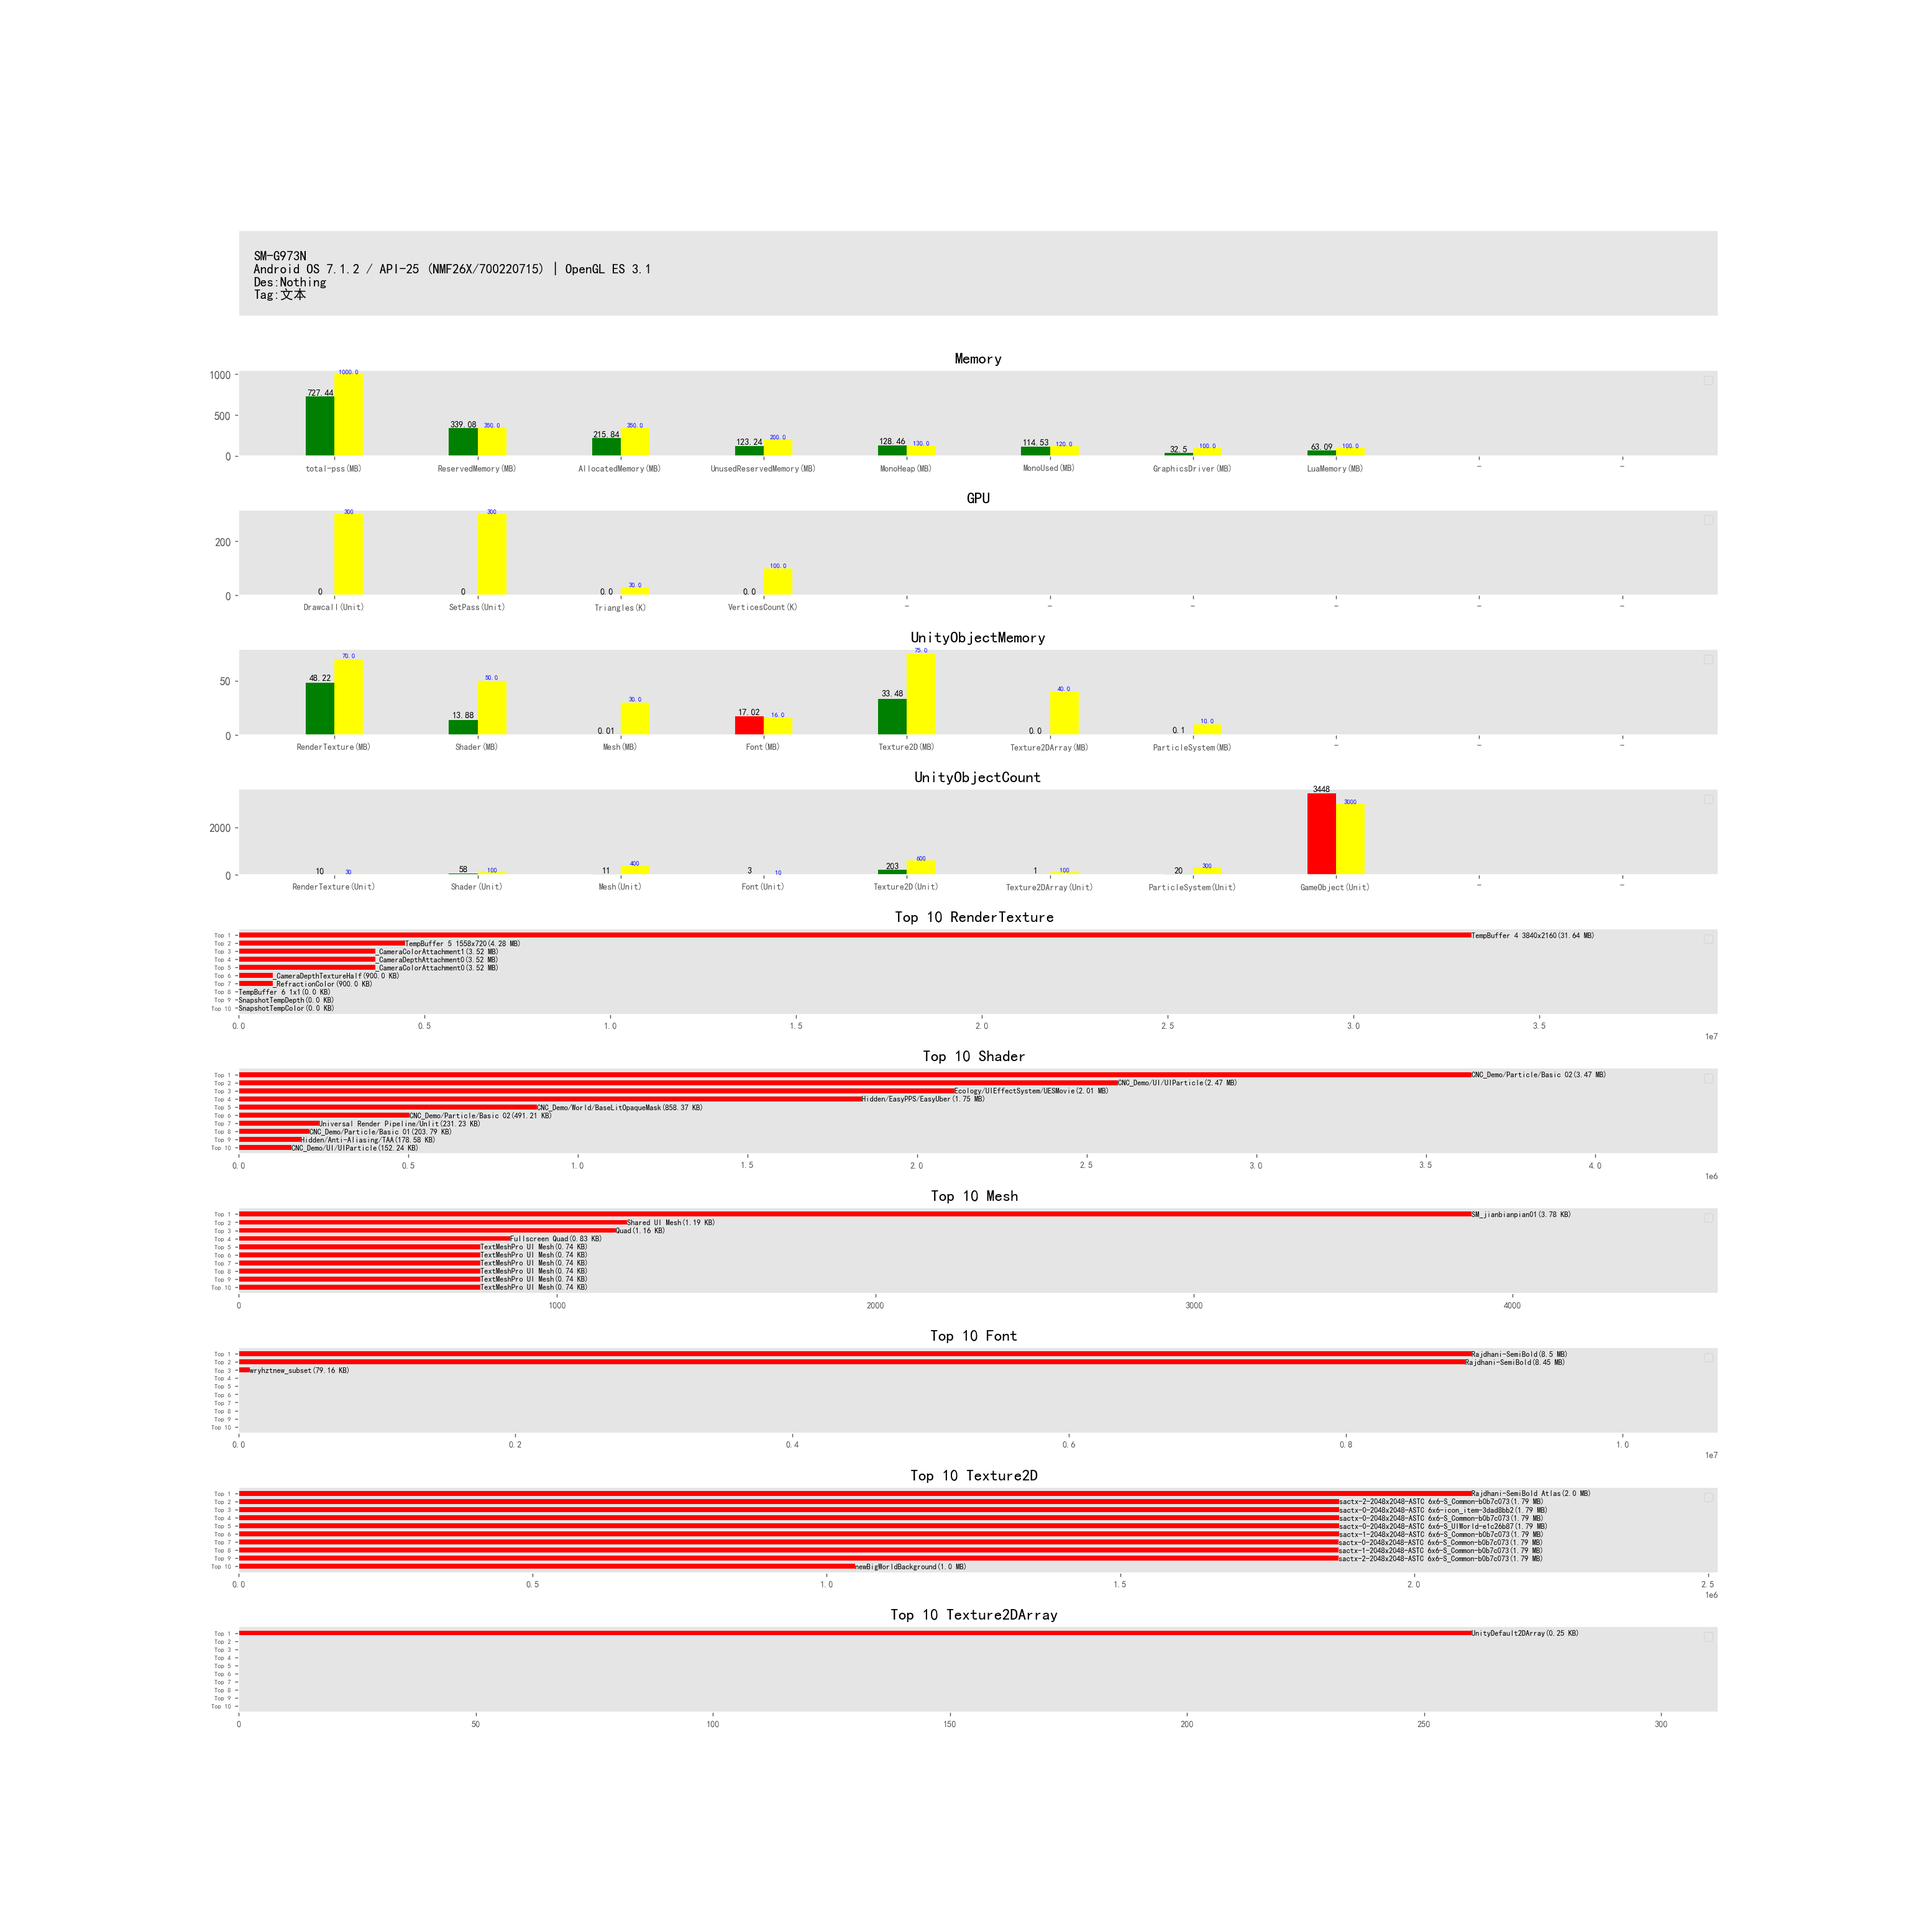
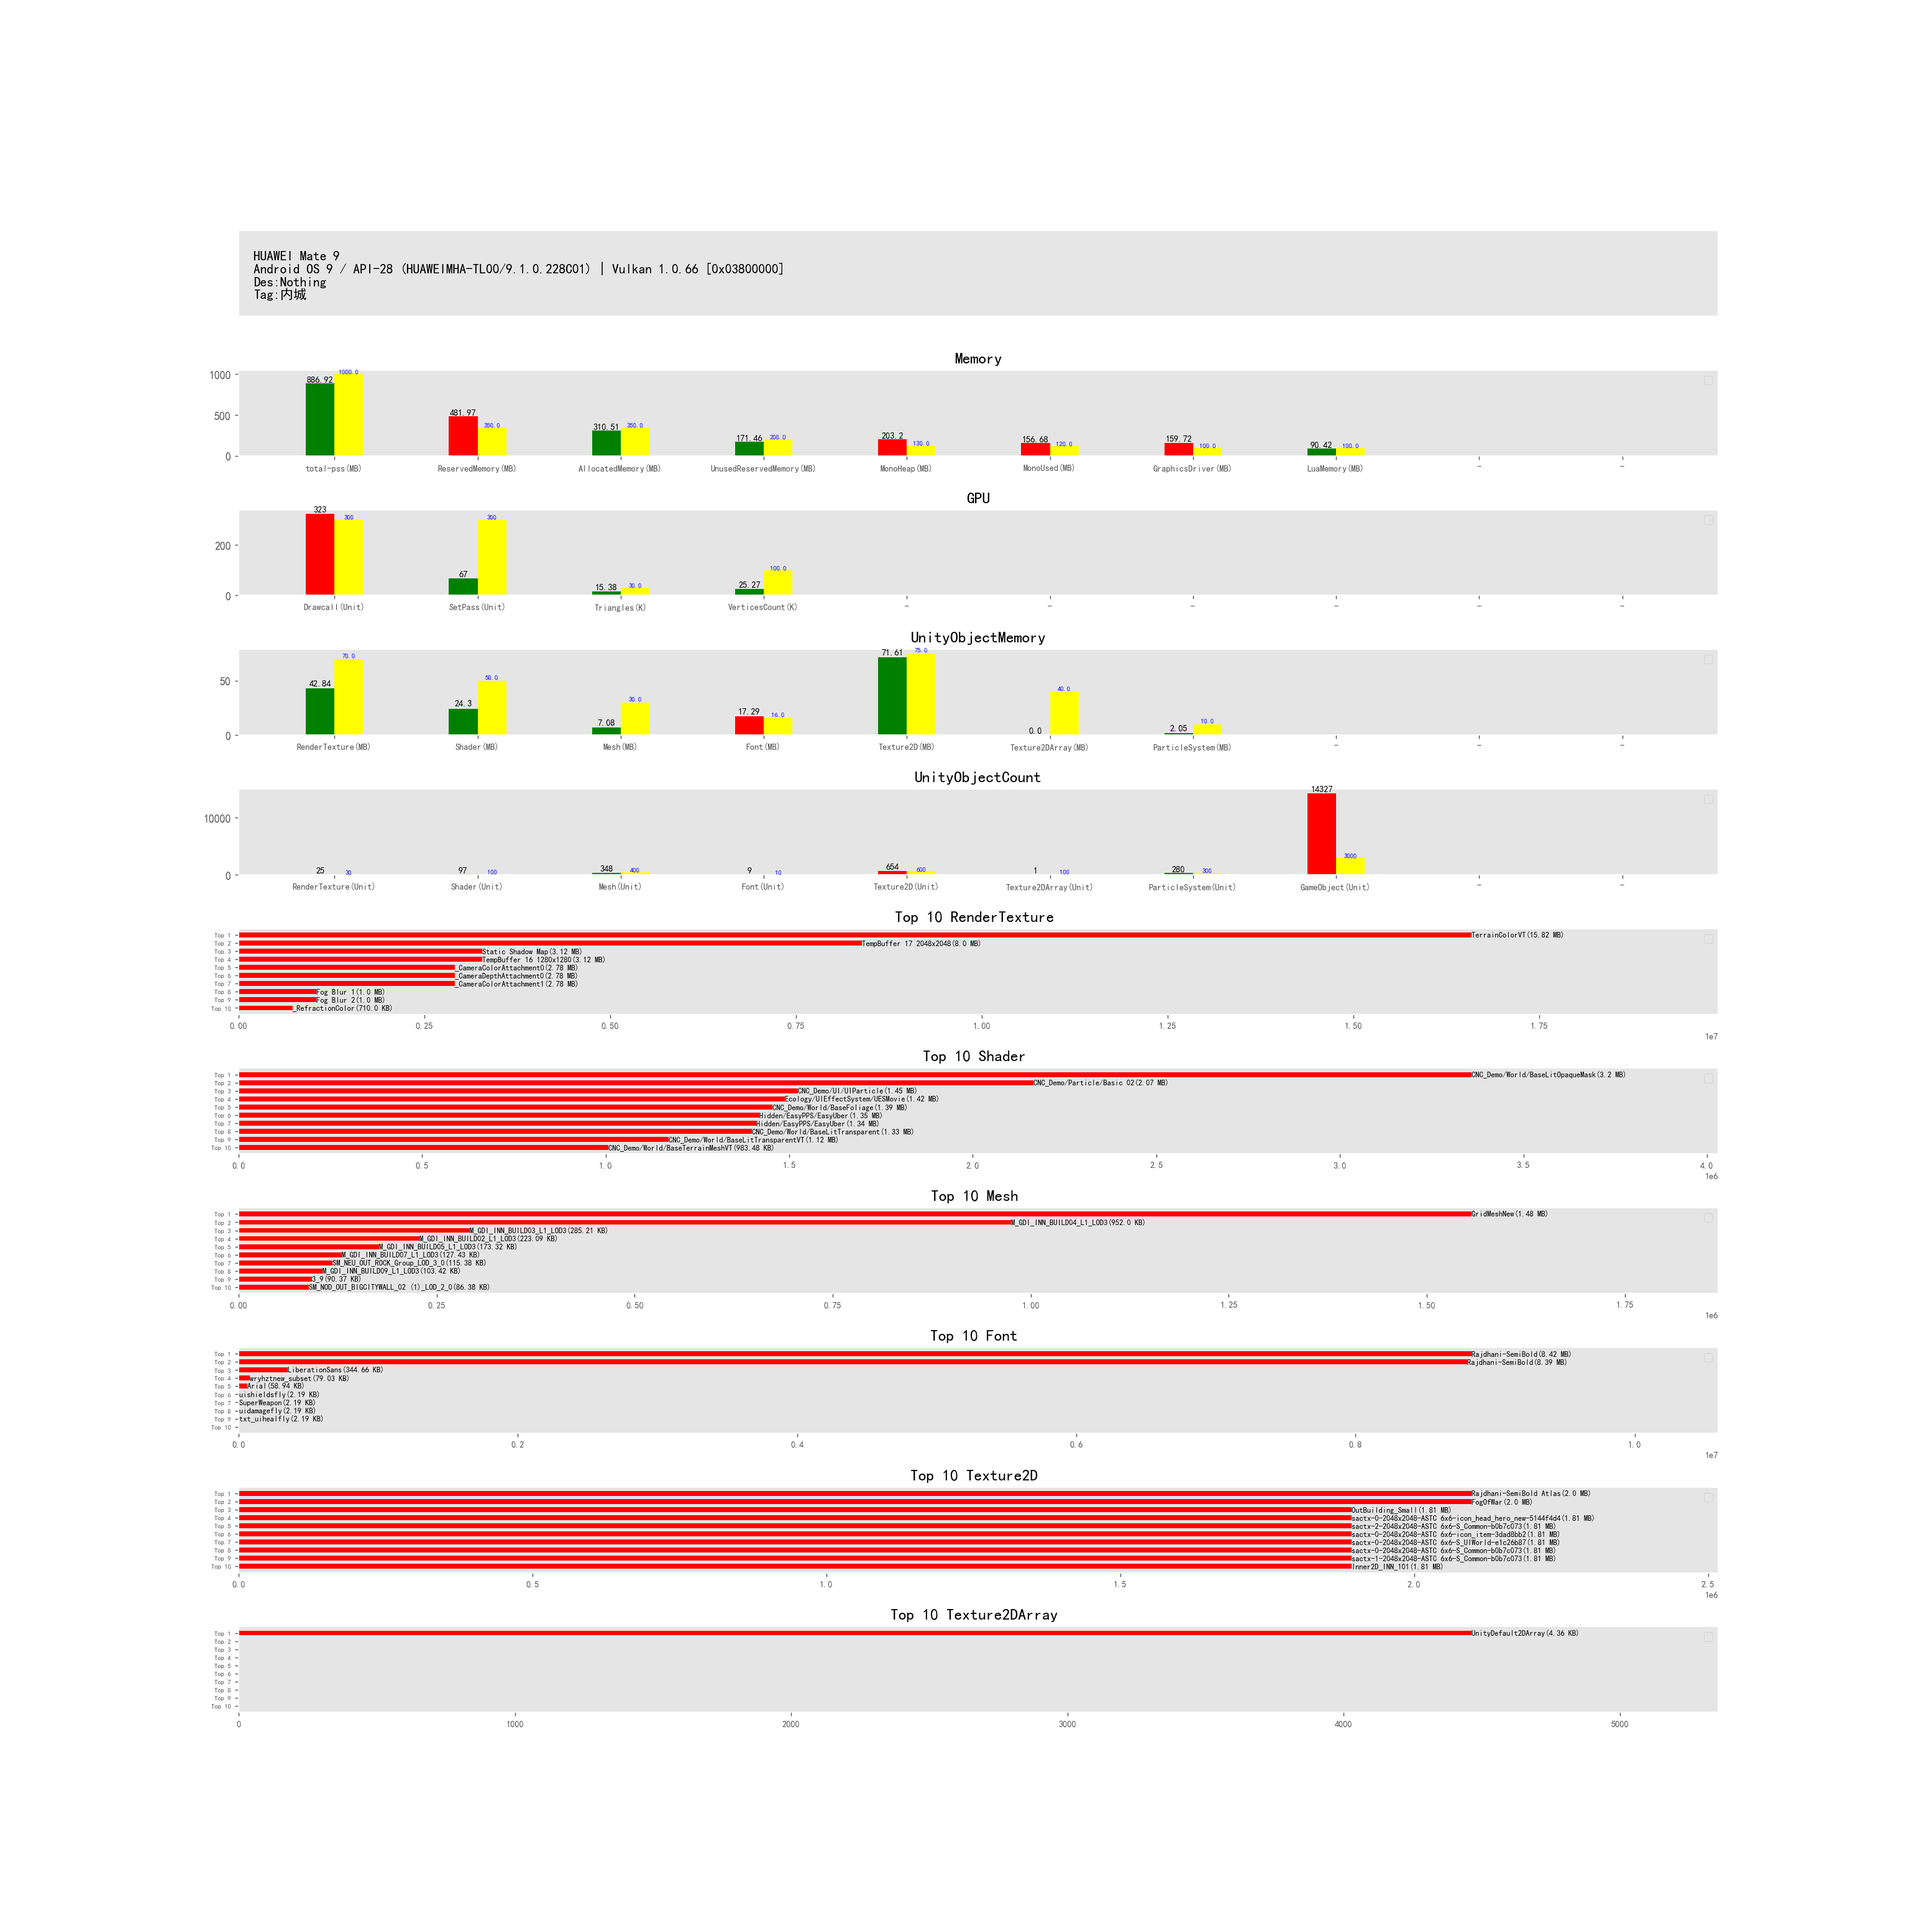
测试代码

diff --git a/Core/draw_view.py b/Core/draw_view.py
@@ -1,9 +1,8 @@
-import math
 #coding:utf-8
 
-import os;
+import os
 import sys
-
+import math
 import matplotlib.font_manager
 import matplotlib.pyplot as plt
 import matplotlib.font_manager as mfm

diff --git a/README.md b/README.md
@@ -1,8 +1,109 @@
-# UnityCustomProfiler
+
+## 
+数据采集 PerformanceRecorder.cs
+主要注册搜集:
+![image.png](csharp.png)
+
+## 数据格式
+
+以文本为例:
+```
+---[SystemInfo]
+HUAWEI Mate 9
+Android OS 9 / API-28 (HUAWEIMHA-TL00/9.1.0.228C01) | Vulkan 1.0.66 [0x03800000]
+
+Des:Nothing
+Tag:内城 ---[Data]
+Memory,total-pss,android total-pss,1,1024000,908202
+Memory,ReservedMemory,Total Reserved memory by Unity,0,367001600,505380864
+Memory,AllocatedMemory,Allocated memory by Unity,0,367001600,325588248
+Memory,UnusedReservedMemory,Reserved but not allocated,0,209715200,179792616
+Memory,MonoHeap,Allocated Mono heap size,0,136314880,213065728
+Memory,MonoUsed,Mono used size,0,125829120,164290560
+Memory,GraphicsDriver,AllocatedMemoryForGraphicsDriver,0,104857600,167483694
+Memory,LuaMemory,LuaMemory,1,102400,92593
+GPU,Drawcall,Drawcall,2,300,323
+GPU,SetPass,SetPass,2,300,67
+GPU,Triangles,Triangles,3,30000,15381
+GPU,VerticesCount,顶点数量,3,100000,25268
+UnityObjectMemory,RenderTexture,Unity RT Size,0,73400320,44922890
+UnityObjectMemory,Shader,Unity Shader Size,0,52428800,25480624
+UnityObjectMemory,Mesh,Unity Mesh Size,0,31457280,7421174
+UnityObjectMemory,Font,Unity Font Size,0,16777216,18133927
+UnityObjectMemory,Texture2D,Unity Texture2D Size,0,78643200,75085932
+UnityObjectMemory,Texture2DArray,Unity Texture2DArray Size,0,41943040,4464
+UnityObjectMemory,ParticleSystem,Unity ParticleSystem Size,0,10485760,2154488
+UnityObjectCount,RenderTexture,Unity RT Count,2,30,25
+UnityObjectCount,Shader,Unity Shader Count,2,100,97
+UnityObjectCount,Mesh,Unity Mesh Count,2,400,348
+UnityObjectCount,Font,Unity Font Count,2,10,9
+UnityObjectCount,Texture2D,Unity Texture2D Count,2,600,654
+UnityObjectCount,Texture2DArray,Unity Texture2DArray Count,2,100,1
+UnityObjectCount,ParticleSystem,Unity ParticleSystem Count,2,300,280
+UnityObjectCount,GameObject,Unity GameObject Count,2,3000,14327
+---[Top]
+Top,RenderTexture,Unity RT Count,0,30,[TerrainColorVT=16588800$TempBuffer 17 2048x2048=8388608$Static Shadow Map=3276800$TempBuffer 16 1280x1280=3276800$_CameraColorAttachment0=2910720$_CameraDepthAttachment0=2910720$_CameraColorAttachment1=2910720$Fog Blur 1=1048576$Fog Blur 2=1048576$_RefractionColor=727040$]
+Top,Shader,Unity Shader Count,0,100,[CNC_Demo/World/BaseLitOpaqueMask=3358519$CNC_Demo/Particle/Basic 02=2165381$CNC_Demo/UI/UIParticle=1523425$Ecology/UIEffectSystem/UESMovie=1488791$CNC_Demo/World/BaseFoliage=1453919$Hidden/EasyPPS/EasyUber=1418949$Hidden/EasyPPS/EasyUber=1409507$CNC_Demo/World/BaseLitTransparent=1398416$CNC_Demo/World/BaseLitTransparentVT=1171993$CNC_Demo/World/BaseTerrainMeshVT=1007082$]
+Top,Mesh,Unity Mesh Count,0,100,[GridMeshNew=1556372$M_GDI_INN_BUILD04_L1_LOD3=974848$M_GDI_INN_BUILD03_L1_LOD3=292056$M_GDI_INN_BUILD02_L1_LOD3=228448$M_GDI_INN_BUILD05_L1_LOD3=177484$M_GDI_INN_BUILD07_L1_LOD3=130488$SM_NEU_OUT_ROCK_Group_LOD_3_0=118148$M_GDI_INN_BUILD09_L1_LOD3=105904$3_9=92536$SM_NOD_OUT_BIGCITYWALL_02 (1)_LOD_2_0=88456$]
+Top,Font,Unity Font Count,0,100,[Rajdhani-SemiBold=8831212$Rajdhani-SemiBold=8799532$LiberationSans=352936$wryhztnew_subset=80931$Arial=60356$uishieldsfly=2240$SuperWeapon=2240$uidamagefly=2240$txt_uihealfly=2240$]
+Top,Texture2D,Unity Texture2D Count,0,100,[Rajdhani-SemiBold Atlas=2097664$FogOfWar=2097664$OutBuilding_Small=1893880$sactx-0-2048x2048-ASTC 6x6-icon_head_hero_new-5144f4d4=1893880$sactx-2-2048x2048-ASTC 6x6-S_Common-b0b7c073=1893880$sactx-0-2048x2048-ASTC 6x6-icon_item-3dad8bb2=1893880$sactx-0-2048x2048-ASTC 6x6-S_UIWorld-e1c26b87=1893880$sactx-0-2048x2048-ASTC 6x6-S_Common-b0b7c073=1893880$sactx-1-2048x2048-ASTC 6x6-S_Common-b0b7c073=1893880$Inner2D_INN_101=1893880$]
+Top,Texture2DArray,Unity Texture2DArray Count,0,100,[UnityDefault2DArray=4464$]
+```
+
+目前支持解析:
+###  SystemInfo
+Tag名固定
+以按行读取显示
+文本内容参考:
+```
+---[SystemInfo]
+HUAWEI Mate 9
+Android OS 9 / API-28 (HUAWEIMHA-TL00/9.1.0.228C01) | Vulkan 1.0.66 [0x03800000]
+
+Des:Nothing
+```
+对应解析展示：
+![image.png](Test.png)
+
+### Data采样数据
+目前每种类别最多支持显示10种类型
+按逗号分割
+下标代表:
+0 ->  类别
+1 -> 类型
+2 -> 描述信息，暂时没有展示
+3-> 数据转换类型  
+4-> 最大值
+5-> 当前值
 
 
-参考main.py运行
+数据转换
+```
+public enum EUnitConversion
+{
+    UnitByte = 0, //单位 byte
+    UnitKb = 1,   //单位 kb
+    Unit = 2,     // 数量
+    UnitK = 3,    // 千  
+}
+```
 
-unitylib 简单看下 代码简单 没什么好说的
+### Top 采样
+目前每种类别最多支持显示10种类型
+按逗号分割
+下标代表:
+0 ->  类别
+1 -> 类型
+2 -> 描述信息，暂时没有展示
+3-> 数据转换类型  
+4-> 最大值
+5-> 当前top数组值， 三个月还有格式 [] 包含分割符 $ 分割数据， = 分割名字及值
 
-development build
+
+文本数据展示参考见附件Test.png
+
+## 其它平台
+项目内打包工具内集成可以用UWA,UPR， 不过目前免费使用限制比较多。官网介绍都比较全面
+
+
+
